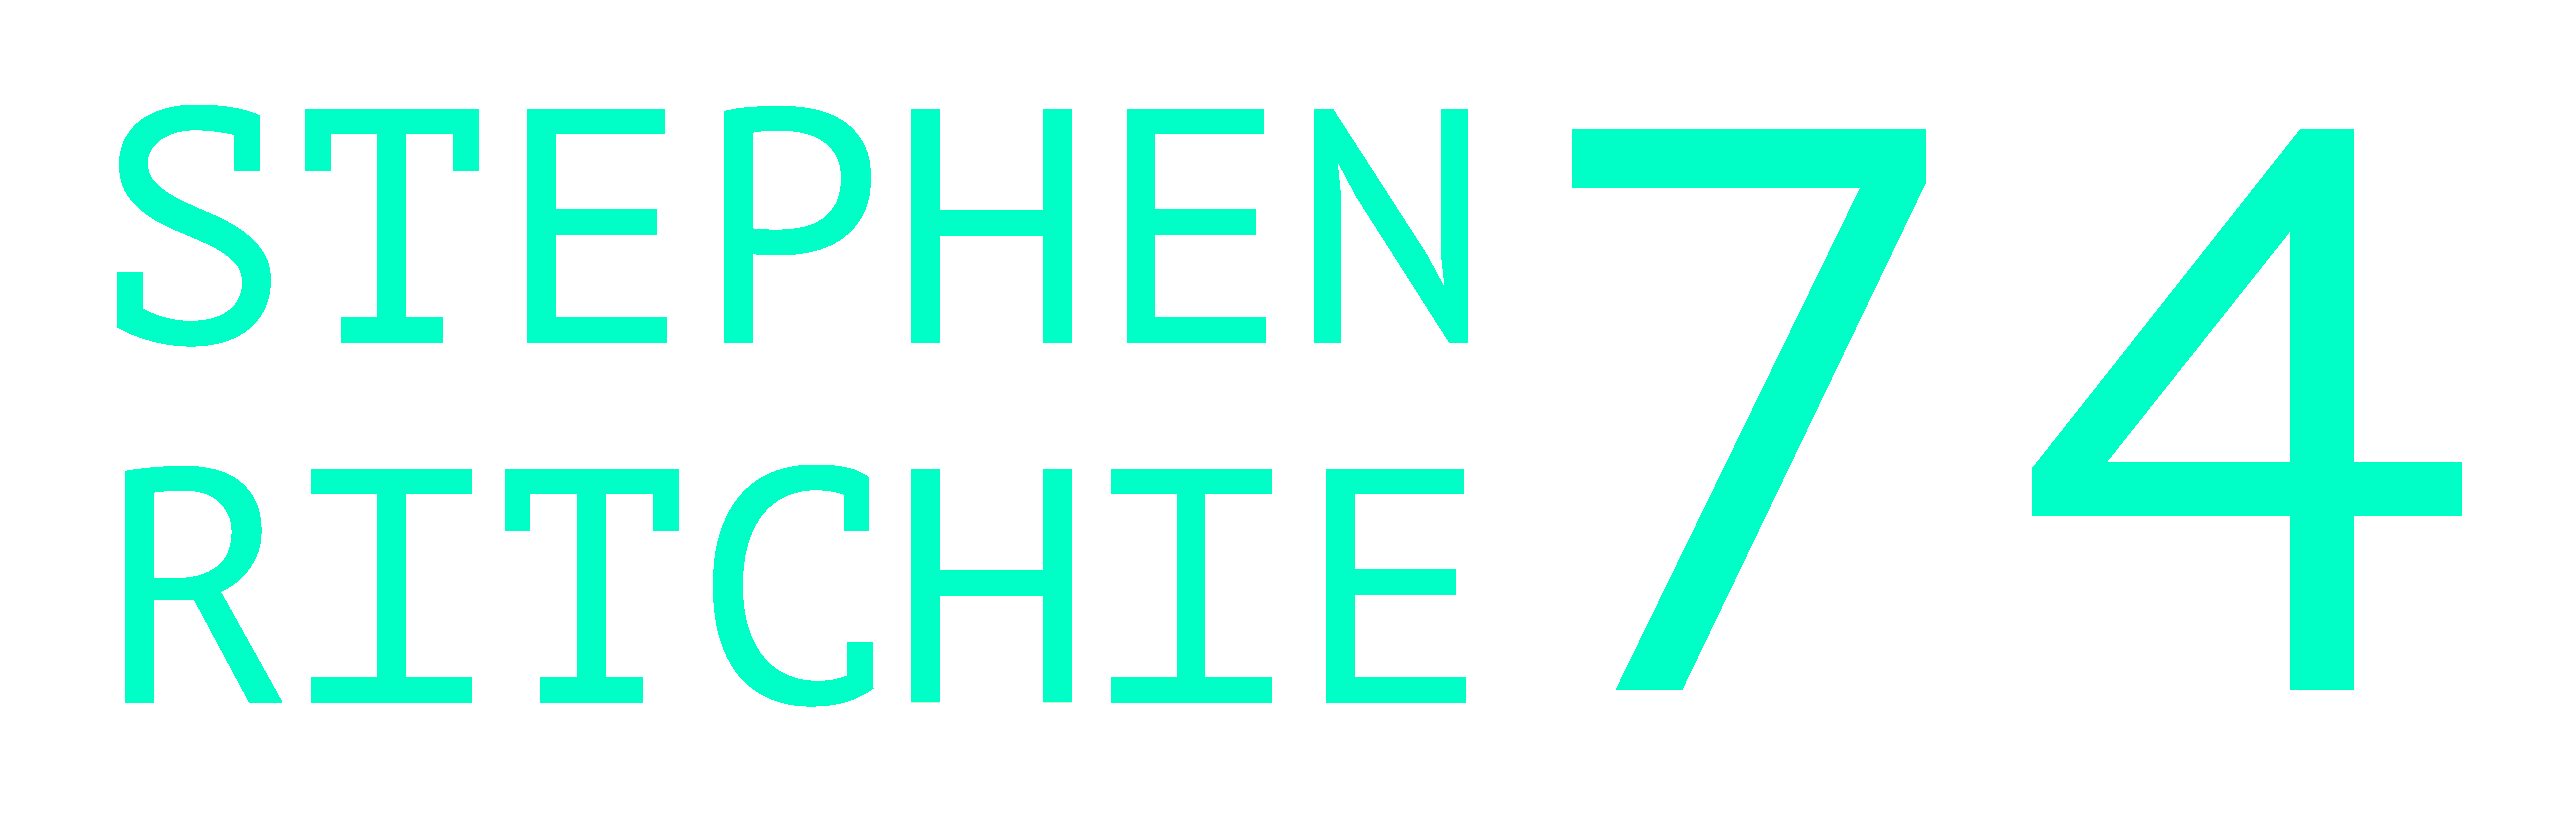
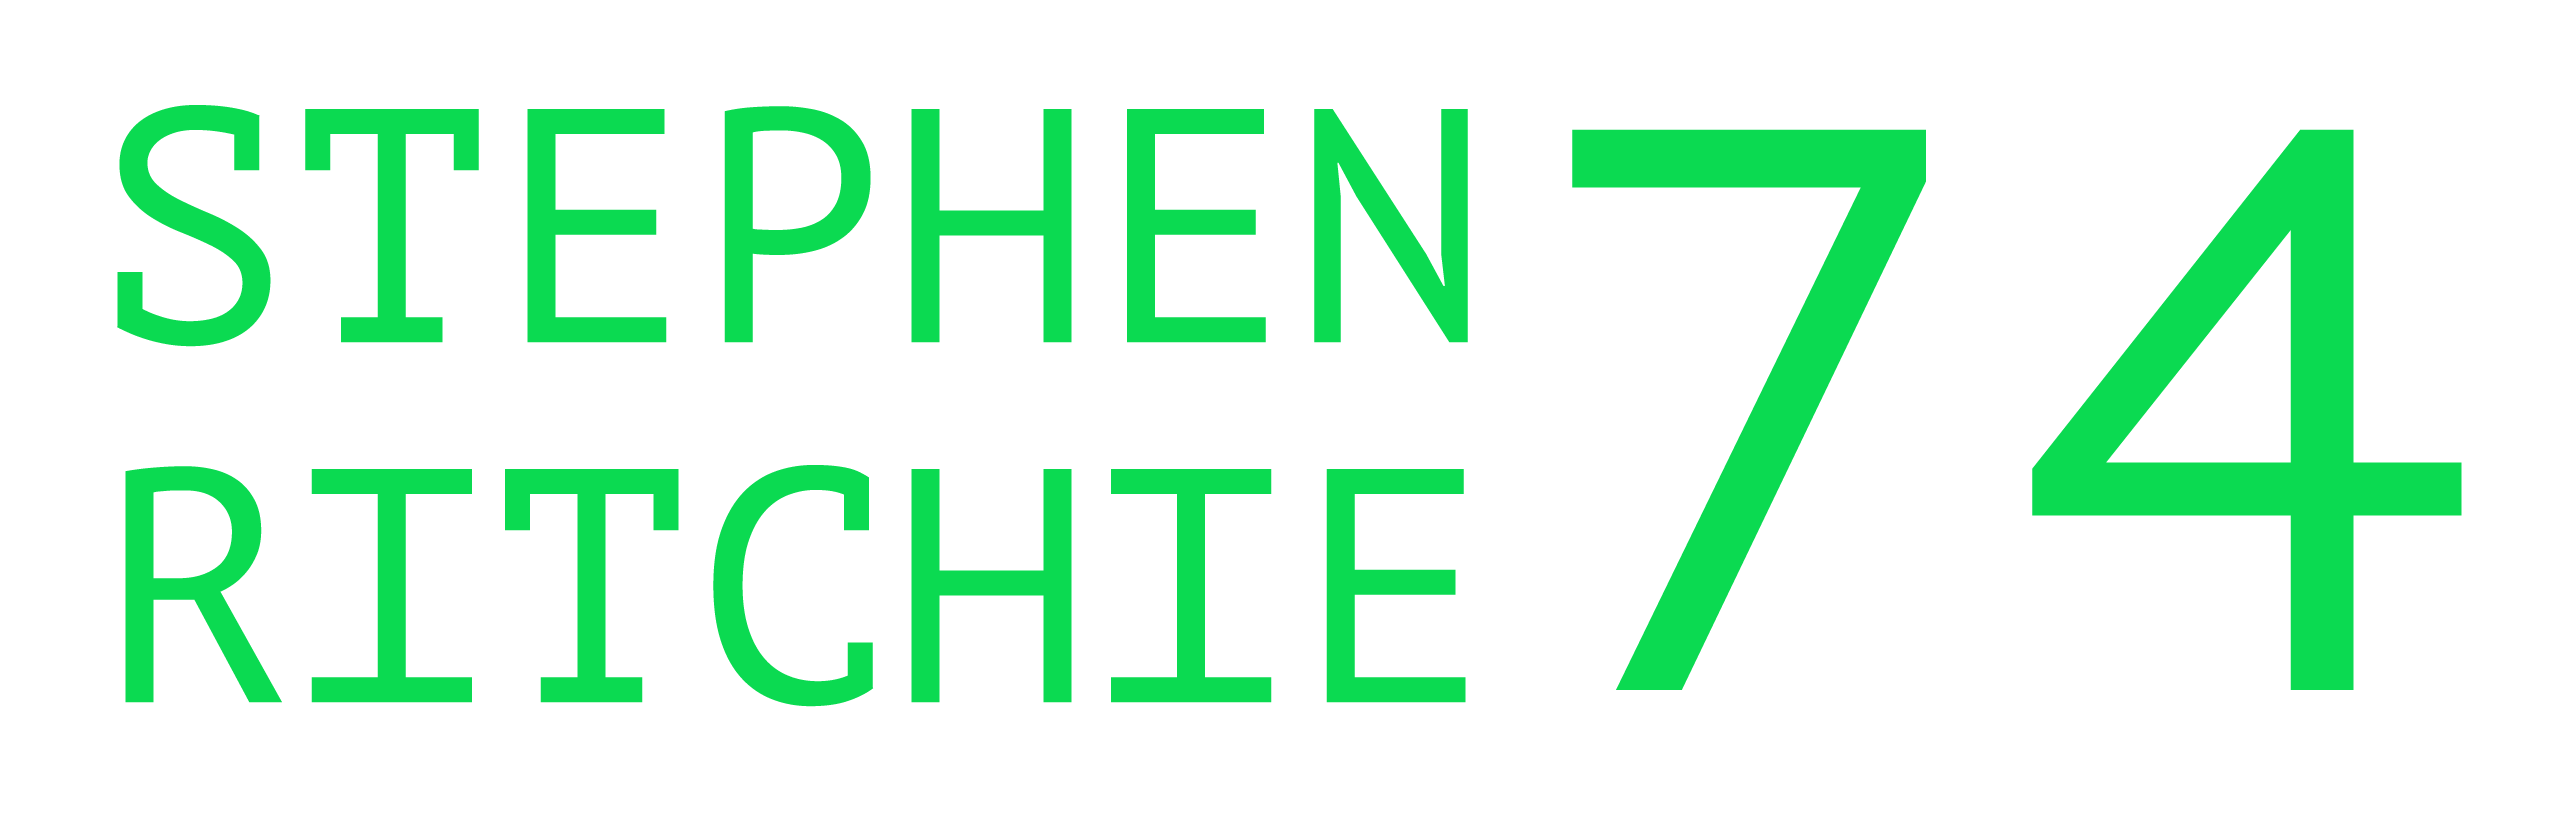
Add files via upload

Changed region(s): [[0.0312, 0.1217, 0.748, 0.8516], [0.0312, 0.5474, 0.5921, 0.882], [0.7791, 0.1521, 0.9661, 0.8516]]

diff --git a/styles.css b/styles.css
@@ -1,128 +1,140 @@
-@font-face {
-  font-family: kanit;
-  src: url(kanit.ttf);
+footer {
+  clear: both;
+  position: fixed;
+  bottom: 0;
+  left: 0;
+  width: 100%;
+  border-top: 2px solid #0BDA51;
+  background-color: #039;
+  min-height: 20px;
+  max-height: 5%;
+  padding-top: 0;
 }
-@font-face {
-  font-family: kanit-light;
-  src: url(Kanit-Light.ttf);
+footer p {
+  margin-top: 0;
+  font-size: ;
 }
-body {
-  background-color: #293133;
-  color: #fff; 
-  font-family: Arial, sans-serif;
-  margin: 0;
-  padding: 0;
+#side ul li {
+  display:block;
+  margin-left:auto;
+  margin-right:auto;
+  width:67%;
+  text-align:center;
+  border:2px solid #0bda51;
+  overflow:hidden;
 }
-ul {
-    padding-left:0;
+#side ul li a {
+  text-decoration:none;
 }
-li {
-  list-style:none;
-  padding:3px;
+#side {
+  height: 100%;
+  position:fixed;
+  top: 10%;
+  bottom: 5%;
+  float: left;
+  margin-right:10px;
+  border-right: 2px solid #0BDA51;
+  width:20%;
 }
-fieldset {
-    border: 2px solid #00FFC6;
-    border-radius: 15px;
-    margin-bottom: 5px;
-}
-@media screen and (max-width: 600px) {
+@media only screen and (max-width: 600px) {
   #side {
     display:none;
   }
   #main {
-    width:100% !important; 
-    margin-left:initial !important;
+    width:98% !important;
+    position:absolute !important;
+    left:5px !important;
+    bottom:0 !important;
+  }
+  #topnav span {
+    display:none;
+  }
+  #topnav a {
+    display:block;
+    text-align:right;
+    text-decoration:none;
+    margin-right:5px;
+  }
+  footer{
+    display:none;
   }
 }
-#side a {
-  padding-bottom:3px;
-}
-a, h1, p, legend, span, label, figcaption {
-  color: #00FFC6;
-}
-a, p, legend, span, label, figcaption {
-  font-family: kanit-light !important;
-}
-a {
-  text-decoration:none;
-}
-a:hover {
-  color: #fff; 
-}
-#topnav span {
-  margin-top:auto;
-  margin-bottom:auto;
-  color:#00FFC6;
-}
-header {
-  background-color: #191A1A; 
-  padding: 20px;
-  display: flex; 
-  justify-content: space-between; 
-  align-items: center; 
-  box-sizing:border-box;
-  border-bottom: 2px solid #00FFC6;
-  position:fixed;
-  width:100%;
-  top:0;
-  left:0;
-  height:12%;
-}
-header img {
-  width: 150px; 
-}
-#topnav {
-  display: flex;
-}
-#topnav a {
-  padding: 10px; 
-}
-#side {
-  width: 20%;
-  float:left;
-  background-color: #191A1A;
-  padding: 20px;
-  position: fixed;
-  height: 76%;
-  box-sizing: border-box;
-  border-right: 2px solid #00FFC6;
-  top:12%;
-}
-#main {
-  width: 80%;
-  height:76%;
-  margin-left: 20%;
-  box-sizing: border-box;
-  padding: 20px;
-  position:absolute;
-  top:12%;
-  overflow:auto;
-}
-footer {
-  background-color: #191A1A; 
-  color:#00FFC6;
-  padding: 20px;
-  box-sizing:border-box;
-  text-align: center; 
-  position:fixed;
-  bottom:0px;
-  left:0;
-  width:100%;
-  height:12%;
-  border-top: 2px solid #00FFC6;
-}
-h1 {
-  margin-top:0;
-}
-#main::-webkit-scrollbar {
-  display: none;
-}
-#main {
-  -ms-overflow-style: none;  
-  scrollbar-width: none;  
+@media only screen and (min-width: 600px) {
+  #topnav a {
+    text-decoration:none;
+  }
 }
 * {
-    font-family: kanit;
+  color: #0BDA51;
+  font-family: Verdana, sans-serif;
+}
+#topnav {
+  float:right;
+}
+header {
+  position: fixed;
+  top:0;
+  left:0;
+  border-bottom:2px solid #0BDA51;
+  width:100%;
+  height:10%;
+  background-color:#039;
+  z-index:5;
+}
+#main {
+  position:absolute;
+  top:10%;
+  left:22%;
+  bottom:5%;
+  float:right;
+  width:77%;
+  overflow:scroll;
+}
+img[src="/stephenritchie74.png"] {
+  height:100%;
+  width:fit-content
+}
+h1 {
+  font-family: Futura, sans-serif;
+}
+fieldset {
+  border: 2px solid #0BDA51;
+  border-radius: 5px;
+  margin-bottom: 10px;
+}
+legend {
+  border: 2px solid #0BDA51;
+  border-radius: 5px;
+  color: #0BDA51f;
+  font-family: sans-serif;
+}
+body {
+  background-color: #039;
+}
+figure {
+  border: 2px solid #0BDA51;
+  border-radius: 5px;
+  margin: 2px;
+  margin-top: 5px;
+  display: inline-block;
+}
+img {
+  border-radius: 3px;
+}
+figcaption{
+  padding: 5px;
+  padding-top: 0;
+}
+ul p {
+  display: none;
+}
+ul {
+  list-style-type: none;
+  padding-left:0;
+}
+li {
+  margin-left: 0;
+  display: inline;
 }
 meter {
   width: 70% !important;
@@ -135,11 +147,10 @@ meter::-webkit-meter-bar {
   box-shadow: 0 5px 5px -5px rgba(0, 0, 0, 0.60) inset;
   border-radius: 10px;
   border: none;
-  background-color:#191A1A;
 }
 meter::-webkit-meter-optimum-value {
   box-shadow: 0 5px 5px -5px #999 inset;
-  background-image:linear-gradient(#00FFC6, #019372);
+  background-image:linear-gradient(#0BDA51,lime);
   border-radius: 10px;
   border: none;
 }
@@ -155,37 +166,10 @@ meter::-webkit-meter-optimum-value {
 }
 :-moz-meter-optimum::-moz-meter-bar {
   box-shadow: 0 5px 5px -5px #999 inset;
-  background-image:linear-gradient(#019372, #00FFC6);
+  background-image:linear-gradient(#0BDA51,lime);
   border-radius: 20px;
   border: none;
 }
-figure {
-  border: 2px solid #00FFC6;
-  border-radius: 15px;
-  margin: 2px;
-  margin-top: 5px;
-  display: inline-block;
-}
-img {
-  border-radius: 11px;
-}
-figcaption{
-  padding: 5px;
-  padding-top: 0;
-  padding-left:10px;
-}
-ul p {
-  display: none;
-}
-audio{
-  display:block;
-}
-audio::-webkit-media-controls-panel {
-  background-color: #00FFC6;
-  }
-audio::-webkit-media-controls-current-time-display, audio::-webkit-media-controls-time-remaining-display {
-  font-family: kanit;
-}
-audio::-webkit-media-controls-enclosure {
-  border-radius: 15px;
+#main {
+  overflow: hidden;
 }
